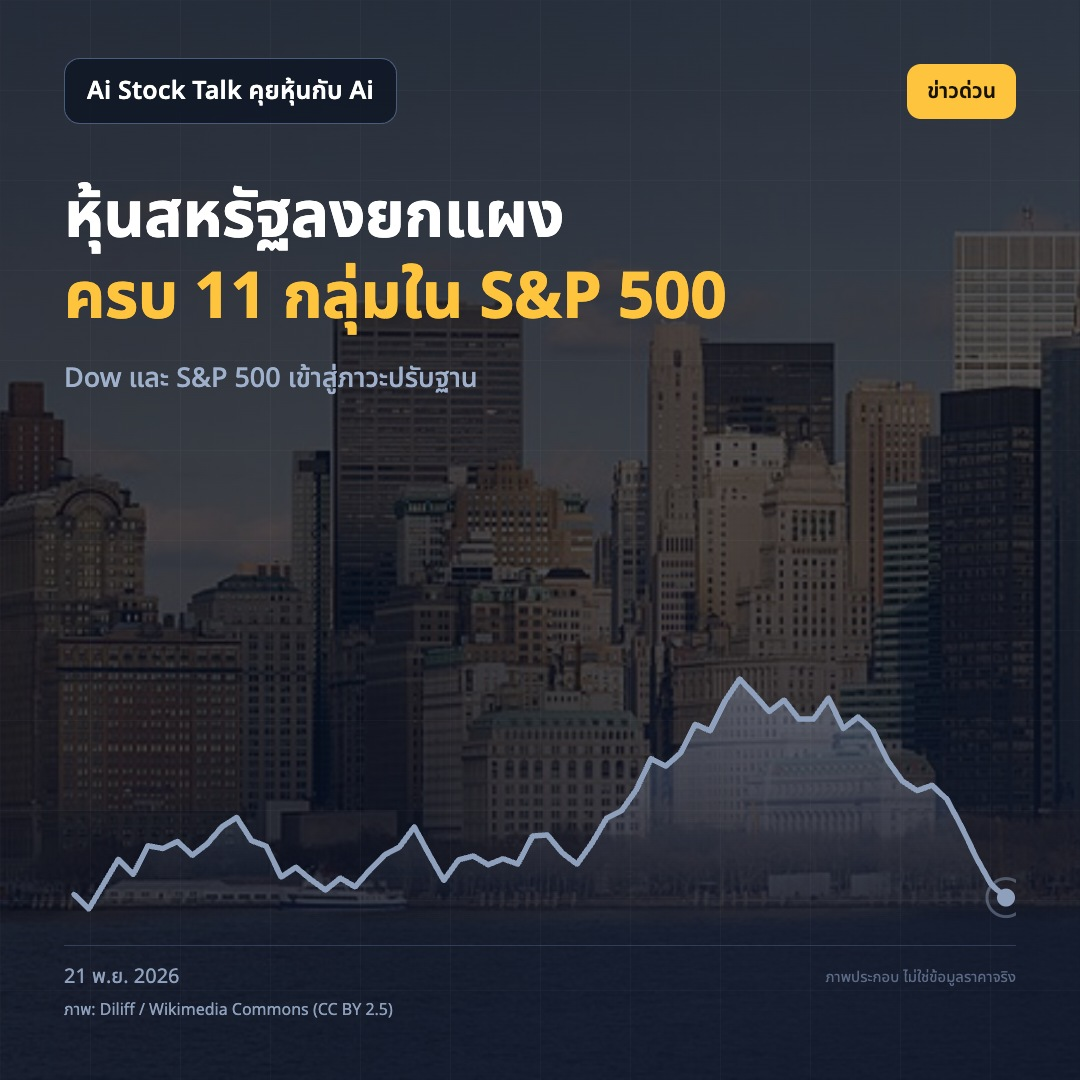
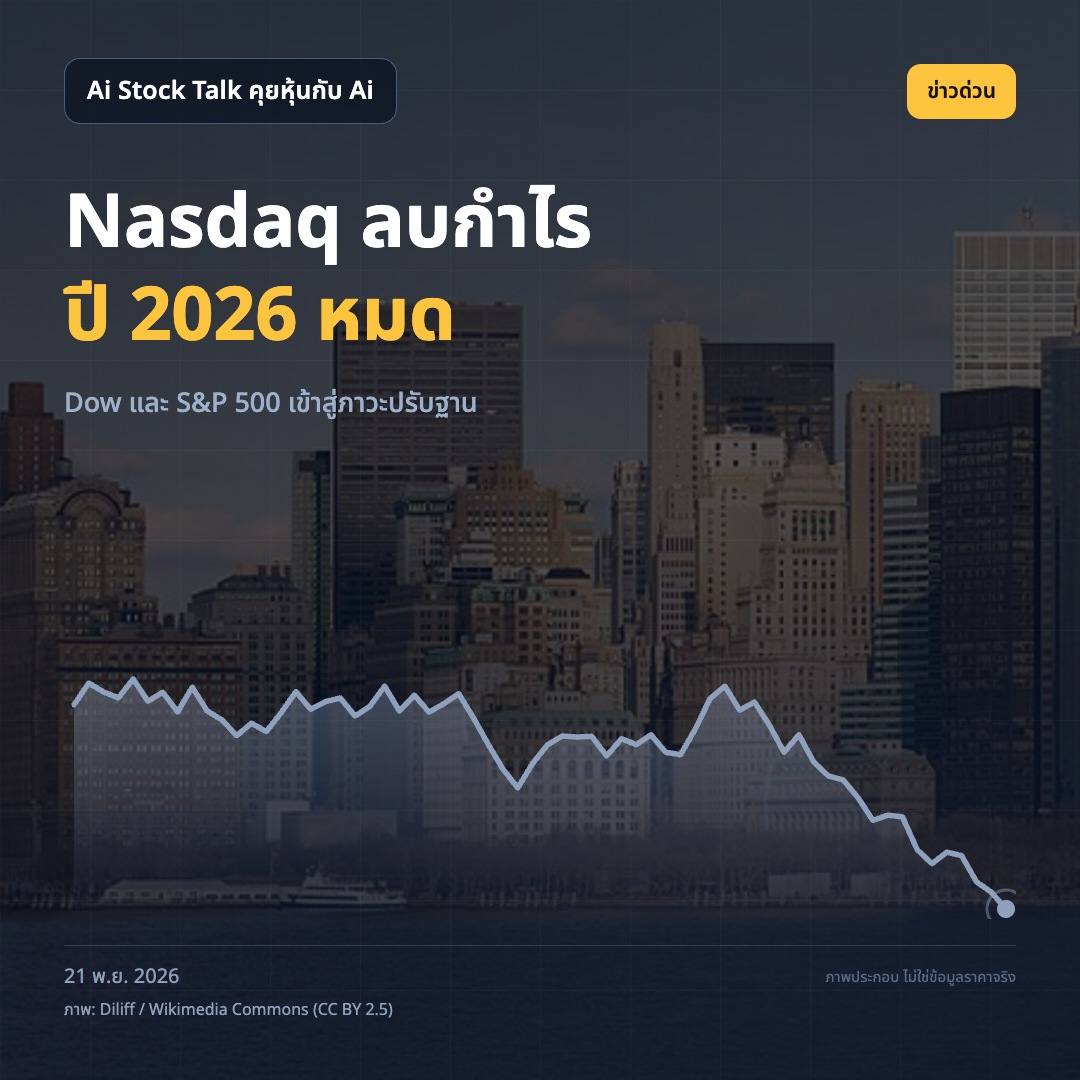
radar: 2026-11-21

diff --git a/docs/2026-11-21.html b/docs/2026-11-21.html
@@ -16,70 +16,65 @@
 <h1>Ai Stock Talk คุยหุ้นกับ Ai — 21 พ.ย. 2026</h1>
 <p class="meta">เผยแพร่ 2026-11-21</p>
 <img class="cover" src="img/cover-2026-11-21.jpg" alt="ภาพปกข่าว 2026-11-21">
-<article><h2>1. หุ้นชิปหาย 2.3 ล้านล้านดอลลาร์ในสัปดาห์เดียว</h2>
+<article><h2>1. หุ้นชิปสูญมูลค่า 2.3 ล้านล้านดอลลาร์ในสัปดาห์เดียว</h2>
 <p><img alt="cover" src="img/post-1-cover-2026-11-21.jpg" /></p>
-<p>หุ้นชิปหาย 2.3 ล้านล้านดอลลาร์ในสัปดาห์เดียว
-ดัชนีกลุ่มเซมิคอนดักเตอร์หลักทำผลงานรายสัปดาห์แย่ที่สุดในรอบ 25 ปี ขณะที่แรงขายกดดันหุ้นที่เกี่ยวข้องกับ AI
-ตัวเลขมูลค่าที่หายไปสะท้อนว่าแรงขายครั้งนี้กระทบหุ้นชิปทั้งกลุ่ม ไม่ได้จำกัดอยู่ที่บริษัทใดบริษัทหนึ่ง
-ทำไมต้องสน: คนที่ถือหุ้นชิปหลายตัว หรือถือกองทุนเทคที่ลงทุนในหุ้นชิป อาจได้รับผลจากแรงขายเดียวกันพร้อมกัน จึงควรดูน้ำหนักหุ้นกลุ่มนี้ในพอร์ต
-ตอนนี้พอร์ตของคุณพึ่งพาหุ้นชิปมากแค่ไหน?
+<p>หุ้นชิปหายไป 2.3 ล้านล้านดอลลาร์ในสัปดาห์เดียว
+แรงขายในหุ้นที่เกี่ยวข้องกับ AI กดมูลค่าหุ้นกลุ่มเซมิคอนดักเตอร์ลงอย่างหนัก ตัวเลขนี้คือมูลค่าตลาดที่หายไป ไม่ใช่รายได้ของบริษัทที่ลดลง
+ดัชนีหุ้นเซมิคอนดักเตอร์หลักทำผลงานรายสัปดาห์แย่ที่สุดในรอบ 25 ปี สะท้อนว่าแรงขายกระจายไปทั้งกลุ่ม ไม่ได้หยุดอยู่ที่หุ้นตัวเดียว
+ทำไมต้องสน: ถ้าพอร์ตมีหุ้นชิปหรือกองทุนเทคสหรัฐฯ การกระจุกตัวในธีม AI อาจทำให้หลายสินทรัพย์ลงพร้อมกันได้
+คุณจะทบทวนสัดส่วนหุ้นชิปในพอร์ตหลังสัปดาห์นี้ไหม?
 ที่มา: https://www.marketwatch.com/story/chip-stocks-see-2-3-trillion-weekly-wipeout-as-panic-grips-the-ai-trade-371f2f03?mod=mw_rss_topstories</p>
-<h1>หุ้นชิป #หุ้นAI #ลงทุนหุ้นสหรัฐ</h1>
+<h1>หุ้นชิป #หุ้นAI #ลงทุนต่างประเทศ</h1>
 <p><em>ภาพ: Dicklyon / Wikimedia Commons (CC BY-SA 4.0)</em></p>
-<h2>2. Nvidia ร่วง 14% หลังเจอแรงขายต่อเนื่อง</h2>
+<h2>2. หุ้น Nvidia ร่วง 14% ท่ามกลางแรงขายหุ้น AI</h2>
 <p><img alt="cover" src="img/post-2-cover-2026-11-21.jpg" /></p>
-<p>Nvidia ร่วง 14% สถิติขาลงรายสัปดาห์ยาวสุดนับจากปี 2008
-หุ้น Nvidia ปิดสัปดาห์ที่ร่วงต่อเนื่องยาวนานที่สุดนับจากวิกฤตการเงินปี 2008
-บริษัทที่เคยมีมูลค่าสูงสุดในโลก ตอนนี้อยู่อันดับ 4 รองจาก Apple, Microsoft และ Alphabet
-อีกแหล่งข่าวระบุว่ามูลค่าตลาด Nvidia หายไป 1.16 ล้านล้านดอลลาร์ในช่วง 7 วันซื้อขายที่ผ่านมา
-ทำไมต้องสน: Nvidia เป็นหุ้นที่นักลงทุนจำนวนมากใช้ติดตามธีม AI เมื่อหุ้นตัวนี้ถูกขายหนัก คนที่ถือหุ้นหรือกองทุนที่มี Nvidia ควรตรวจดูว่าน้ำหนักในพอร์ตเปลี่ยนไปอย่างไร
-คุณมองแรงขายครั้งนี้เป็นเหตุให้ทบทวนสัดส่วนหุ้น AI ในพอร์ตไหม?
+<p>Nvidia ร่วง 14% และแพ้ติดต่อกัน 7 สัปดาห์
+หุ้นผู้ผลิตชิป AI รายนี้ปิดสัปดาห์ขาลงต่อเนื่องยาวที่สุดนับจากช่วงวิกฤตการเงินปี 2008 ท่ามกลางแรงขายหุ้นเทคโนโลยี
+บริษัทเคยมีมูลค่าตลาดสูงที่สุดในโลก แต่ตอนนี้อยู่อันดับ 4 ตามหลัง Apple, Microsoft และ Alphabet อีกแหล่งข่าวระบุว่ามูลค่าตลาด Nvidia หายไป 1.16 ล้านล้านดอลลาร์ใน 7 วันทำการ
+ทำไมต้องสน: คนไทยที่ถือ NVDA โดยตรง หรือถือกองทุนที่มีหุ้นเทคสหรัฐฯ ควรดูว่าน้ำหนักหุ้นตัวนี้ส่งผลต่อพอร์ตมากเพียงใด
+หลังการร่วงครั้งนี้ คุณจะดูอะไรเป็นอย่างแรกก่อนตัดสินใจถือหรือขาย?
 ที่มา: https://www.cnbc.com/2026/11/20/nvidias-7-week-losing-streak-is-longest-since-2008-financial-crisis.html https://www.marketwatch.com/story/nvidias-stock-heads-for-a-stretch-of-weekly-losses-unseen-since-2008-91aba9a6?mod=mw_rss_topstories</p>
 <h1>Nvidia #หุ้นAI #หุ้นสหรัฐ</h1>
 <p><em>ภาพ: Dicklyon / Wikimedia Commons (CC BY-SA 4.0)</em></p>
-<h2>3. แรงขายหุ้นสหรัฐลามครบ 11 กลุ่มใน S&amp;P 500</h2>
+<h2>3. Nasdaq ลบกำไรปี 2026 หมด ขณะตลาดสหรัฐฯ เข้าเขตปรับฐาน</h2>
 <p><img alt="cover" src="img/post-3-cover-2026-11-21.jpg" /></p>
-<p>หุ้นทั้ง 11 กลุ่มใน S&amp;P 500 ลงเกิน 1% ในสัปดาห์เดียว
-Dow และ S&amp;P 500 เข้าสู่ภาวะปรับฐาน ส่วน Nasdaq เจอสัปดาห์ที่แย่ที่สุดนับจากปี 2020
-หุ้นทั้ง 11 กลุ่มของ S&amp;P 500 ปิดสัปดาห์ลดลงมากกว่า 1% พร้อมกัน เป็นครั้งแรกนับจากเดือนเมษายน 2025
-อีกข้อมูลระบุว่า 94% ของหุ้นใน S&amp;P 500 ลดลงในสัปดาห์นี้
-ทำไมต้องสน: คนไทยที่ลงทุนผ่านกองทุนหุ้นสหรัฐวงกว้างอาจเจอแรงขายกระจายหลายกลุ่ม แม้ไม่ได้เลือกถือหุ้น AI หรือหุ้นเทคโดยตรง
-คุณดูความเสี่ยงของกองทุนสหรัฐในพอร์ตจากอะไรเป็นหลัก?
-ที่มา: https://www.marketwatch.com/story/dow-s-p-500-enter-correction-as-nasdaq-suffers-worst-week-since-2020-bd74dadf?mod=mw_rss_topstories https://www.marketwatch.com/story/these-stocks-were-crushed-the-most-this-week-as-the-tech-wreck-accelerated-8d6f7323?mod=mw_rss_topstories</p>
-<h1>หุ้นสหรัฐ #ตลาดหุ้น #พอร์ตลงทุน</h1>
+<p>Nasdaq ลบกำไรปี 2026 หมดแล้ว
+แรงขายหุ้น AI กดดัชนี Nasdaq จนกำไรที่สะสมมาตลอดปีถูกลบ ขณะที่ Nasdaq ผ่านสัปดาห์ที่แย่ที่สุดนับจากปี 2020
+ดัชนี Dow และ S&amp;P 500 เข้าสู่ภาวะปรับฐานด้วย ทั้ง 11 กลุ่มอุตสาหกรรมใน S&amp;P 500 ปิดสัปดาห์ลดลงมากกว่า 1% พร้อมกัน
+ทำไมต้องสน: นักลงทุนไทยที่ถือกองทุนหุ้นสหรัฐฯ อาจได้รับผลจากการลงของตลาดวงกว้าง แม้ไม่ได้เลือกซื้อหุ้น AI เอง ควรดูว่ากองทุนที่ถืออิงดัชนีใด
+พอร์ตของคุณรับความผันผวนแบบนี้ได้มากแค่ไหน?
+ที่มา: https://www.theguardian.com/business/2026/nov/20/global-stock-markets-slump-anthropic-ipo-ai-sell-off https://www.marketwatch.com/story/dow-s-p-500-enter-correction-as-nasdaq-suffers-worst-week-since-2020-bd74dadf?mod=mw_rss_topstories</p>
+<h1>Nasdaq #หุ้นสหรัฐ #กองทุนรวม</h1>
 <p><em>ภาพ: Diliff / Wikimedia Commons (CC BY 2.5)</em></p>
-<h2>4. Anthropic ร่วงเกือบ 9% หลังเข้าตลาด</h2>
+<h2>4. หุ้น Anthropic ยังเจอความเสี่ยงจากหุ้นที่รอพ้นช่วงห้ามขาย</h2>
 <p><img alt="cover" src="img/post-4-cover-2026-11-21.jpg" /></p>
-<p>Anthropic ร่วงเกือบ 9% ในวันซื้อขายเต็มวันแรก
-หุ้นบริษัท AI รายนี้ถูกขายท่ามกลางแรงกดดันต่อหุ้นเทค และปิดที่ 97.17 ดอลลาร์
-หุ้นเปิดซื้อขายที่ 111.50 ดอลลาร์เมื่อวันพฤหัสบดี ก่อนราคาลดลง แต่ราคาปิดล่าสุดยังสูงกว่าราคา IPO ที่ 83 ดอลลาร์อยู่ 17%
-อีกแหล่งข่าวระบุว่าการที่หุ้นรักษาราคาเปิดไว้ไม่ได้ถูกมองว่าเป็นสัญญาณที่ไม่ดีต่อหุ้นเทคตัวอื่น
-ทำไมต้องสน: หุ้น AI ที่เพิ่งเข้าตลาดอาจมีราคาผันผวนมาก แม้ยังซื้อขายเหนือราคา IPO คนที่กำลังมองหุ้นกลุ่มนี้ควรแยกราคาเปิดออกจากราคาที่หุ้นยืนได้หลังเริ่มซื้อขาย
-คุณให้น้ำหนักกับราคา IPO หรือราคาหลังเข้าตลาดมากกว่ากัน?
-ที่มา: https://www.cnbc.com/2026/11/20/anthropic-stock-ai-amd-nvidia.html https://www.marketwatch.com/story/anthropics-stock-slides-closer-to-ipo-price-and-drags-down-the-ai-trade-cc43a0c4?mod=mw_rss_topstories</p>
-<h1>Anthropic #หุ้นAI #IPO</h1>
+<p>หุ้น Anthropic หลายพันล้านหุ้นยังรอพ้นช่วงห้ามขาย
+หลังบริษัทเข้าตลาด หุ้นจำนวนมากยังถูกจำกัดการขายตามเงื่อนไขช่วงห้ามขาย เรื่องนี้เกิดขึ้นท่ามกลางแรงขายหุ้น AI ที่กดตลาดในช่วงเดียวกัน
+เมื่อข้อจำกัดสิ้นสุดลง หุ้นเหล่านั้นอาจเข้าสู่ตลาดมากขึ้น แหล่งข่าวชี้ว่าความเสี่ยงด้านปริมาณหุ้นเสนอขายอาจกดดันราคาตลอดปีข้างหน้า แต่ยังไม่ใช่การยืนยันว่าผู้ถือหุ้นจะขาย
+ทำไมต้องสน: นักลงทุนไทยที่มองหุ้น AI จากกระแสการเข้าตลาด ควรดูจำนวนหุ้นที่อาจซื้อขายได้ในอนาคตควบคู่กับข่าวธุรกิจ
+ความเสี่ยงเรื่องหุ้นพ้นช่วงห้ามขายมีผลต่อการตัดสินใจของคุณไหม?
+ที่มา: https://www.marketwatch.com/story/the-hidden-catch-in-anthropics-ipo-billions-of-locked-up-shares-are-waiting-in-the-wings-279d33ce?mod=mw_rss_topstories</p>
+<h1>Anthropic #หุ้นAI #ตลาดหุ้นสหรัฐ</h1>
 <p><em>ภาพ: ESO/P. Horálek / Wikimedia Commons (CC BY 4.0)</em></p>
-<h2>5. ข่าวดีลซื้อกิจการดัน Zscaler พุ่ง 18%</h2>
+<h2>5. YouTube เตรียมจ่าย 3 พันล้านดอลลาร์เพื่อยุติคดีจากโรงเรียน</h2>
 <p><img alt="cover" src="img/post-5-cover-2026-11-21.jpg" /></p>
-<p>Zscaler พุ่ง 18% หลังมีข่าว CrowdStrike คุยซื้อกิจการ
-รายงานระบุว่า CrowdStrike กำลังเจรจาเพื่อซื้อบริษัทความปลอดภัยไซเบอร์ Zscaler
-หุ้น Zscaler ตอบรับข่าวด้วยการปรับขึ้น 18% ขณะที่บริษัทในธุรกิจความปลอดภัยไซเบอร์กำลังมองหาการซื้อกิจการในยุค AI
-ข้อมูลที่มีระบุเพียงการเจรจา ยังไม่ได้ระบุว่าทั้งสองบริษัทบรรลุข้อตกลงแล้ว
-ทำไมต้องสน: หุ้นที่ขึ้นจากข่าวซื้อกิจการผูกอยู่กับผลของการเจรจา นักลงทุนที่ถือหุ้นความปลอดภัยไซเบอร์จึงควรติดตามว่าข่าวคืบหน้าไปถึงขั้นใด ก่อนนำราคาหุ้นที่พุ่งขึ้นไปประเมินพอร์ต
-คุณมองข่าวเจรจาซื้อกิจการต่างจากดีลที่ประกาศแล้วอย่างไร?
-ที่มา: https://www.cnbc.com/2026/11/20/zscaler-crowdstrike-deal.html</p>
-<h1>Zscaler #CrowdStrike #หุ้นไซเบอร์</h1>
+<p>YouTube เตรียมจ่าย 3 พันล้านดอลลาร์
+รายงานระบุว่าบริษัทบรรลุข้อตกลงในหลักการกับเขตการศึกษาหลายพันแห่งในสหรัฐฯ เพื่อยุติข้อกล่าวหาว่าการออกแบบแพลตฟอร์มให้ติดใช้งานส่งผลเสียต่อเด็ก
+ข้อตกลงที่รายงานยังรวมมาตรการคุ้มครองวัยรุ่นเพิ่มเติม และอาจทำให้ Google เลี่ยงการขึ้นศาลในคดีชุดนี้ได้ ขณะนี้สถานะยังเป็นข้อตกลงในหลักการ
+ทำไมต้องสน: ผู้ถือหุ้น Alphabet หรือกองทุนเทคที่มีหุ้นบริษัทนี้ควรติดตามทั้งภาระจากการยุติคดีและมาตรการที่อาจเปลี่ยนการใช้งาน YouTube
+คุณคิดว่ามาตรการคุ้มครองวัยรุ่นควรเริ่มจากจุดไหน?
+ที่มา: https://www.theverge.com/streaming/1039096/youtube-social-media-addiction-school-districts-settlement</p>
+<h1>YouTube #Alphabet #หุ้นเทค</h1>
 <p><em>ภาพ: Diliff / Wikimedia Commons (CC BY 2.5)</em></p>
-<h2>6. ทดลองติดตามข้อมูล 2 ล้านจุด พบความเสี่ยงรั่วในบริการ AI</h2>
+<h2>6. Meta ทบทวนเป้าหมายปล่อยก๊าซสุทธิเป็นศูนย์ ขณะขยายดาต้าเซ็นเตอร์ AI</h2>
 <p><img alt="cover" src="img/post-6-cover-2026-11-21.jpg" /></p>
-<p>ติดตามข้อมูล 2 ล้านจุด พบความเสี่ยงรั่วผ่านบริการ AI
-นักวิจัยฝังตัวติดตามดิจิทัล 2 ล้านจุดในคำขอที่ส่งผ่านเครือข่ายบริการ AI เพื่อตรวจว่าข้อมูลอ่อนไหวเดินทางไปไหน
-การทดลองพบการเปิดเผยข้อมูลที่มีความอ่อนไหวในเครือข่ายบริการเหล่านี้
-แอป AI จำนวนมากใช้ตัวกลางรับคำขอจากผู้ใช้ แล้วส่งต่อไปยังผู้ให้บริการโมเดลอีกทอดหนึ่ง
-ทำไมต้องสน: หากใช้ AI กับข้อมูลลูกค้าหรือเอกสารงาน ความเสี่ยงอาจอยู่ในบริการระหว่างทางด้วย ผู้ใช้และองค์กรจึงควรรู้ว่าคำขอถูกส่งผ่านบริการใดบ้าง
-ก่อนใส่ข้อมูลสำคัญในแอป AI คุณตรวจสอบเส้นทางข้อมูลหรือไม่?
-ที่มา: https://arstechnica.com/security/2026/11/a-leaky-ai-supply-chain-is-exposing-secret-user-data-at-an-alarming-rate/</p>
-<h1>ความปลอดภัยข้อมูล #AI #ข้อมูลส่วนตัว</h1>
+<p>Meta ทบทวนเป้าหมายปี 2030 ท่ามกลางการเร่งสร้าง AI
+ผู้บริหารกำลังพิจารณาเป้าหมายเดิมที่จะลดการปล่อยก๊าซเรือนกระจกสุทธิเป็นศูนย์ภายในปี 2030 หลังรายงานความยั่งยืนฉบับล่าสุดเปิดเผยว่าการปล่อยก๊าซเพิ่มขึ้นมาก
+รายงานระบุว่าบริษัทมีอัตราการเพิ่มขึ้นของการปล่อยก๊าซสูงเป็นประวัติการณ์ และสูงกว่าคู่แข่งเทคโนโลยีรายใหญ่ที่กำลังสร้างดาต้าเซ็นเตอร์ AI เช่นกัน
+ทำไมต้องสน: การขยายโครงสร้างพื้นฐาน AI มีต้นทุนด้านพลังงานและสิ่งแวดล้อมที่ผู้ถือหุ้น Meta ควรติดตามควบคู่กับแผนเติบโต
+คุณมองต้นทุนด้านนี้เป็นความเสี่ยงต่อการลงทุนหรือไม่?
+ที่มา: https://arstechnica.com/ai/2026/11/meta-reconsiders-2030-net-zero-goal-amid-record-emissions-from-ai-data-centers/</p>
+<h1>Meta #ดาต้าเซ็นเตอร์ #หุ้นAI</h1>
 <p><em>ภาพ: Diliff / Wikimedia Commons (CC BY 2.5)</em></p></article>
 <footer>
   สร้างอัตโนมัติจาก Horizon AI News Radar · <a href="https://tstevy3a.github.io/horizon-ai-radar/">หน้าแรก</a><br>
